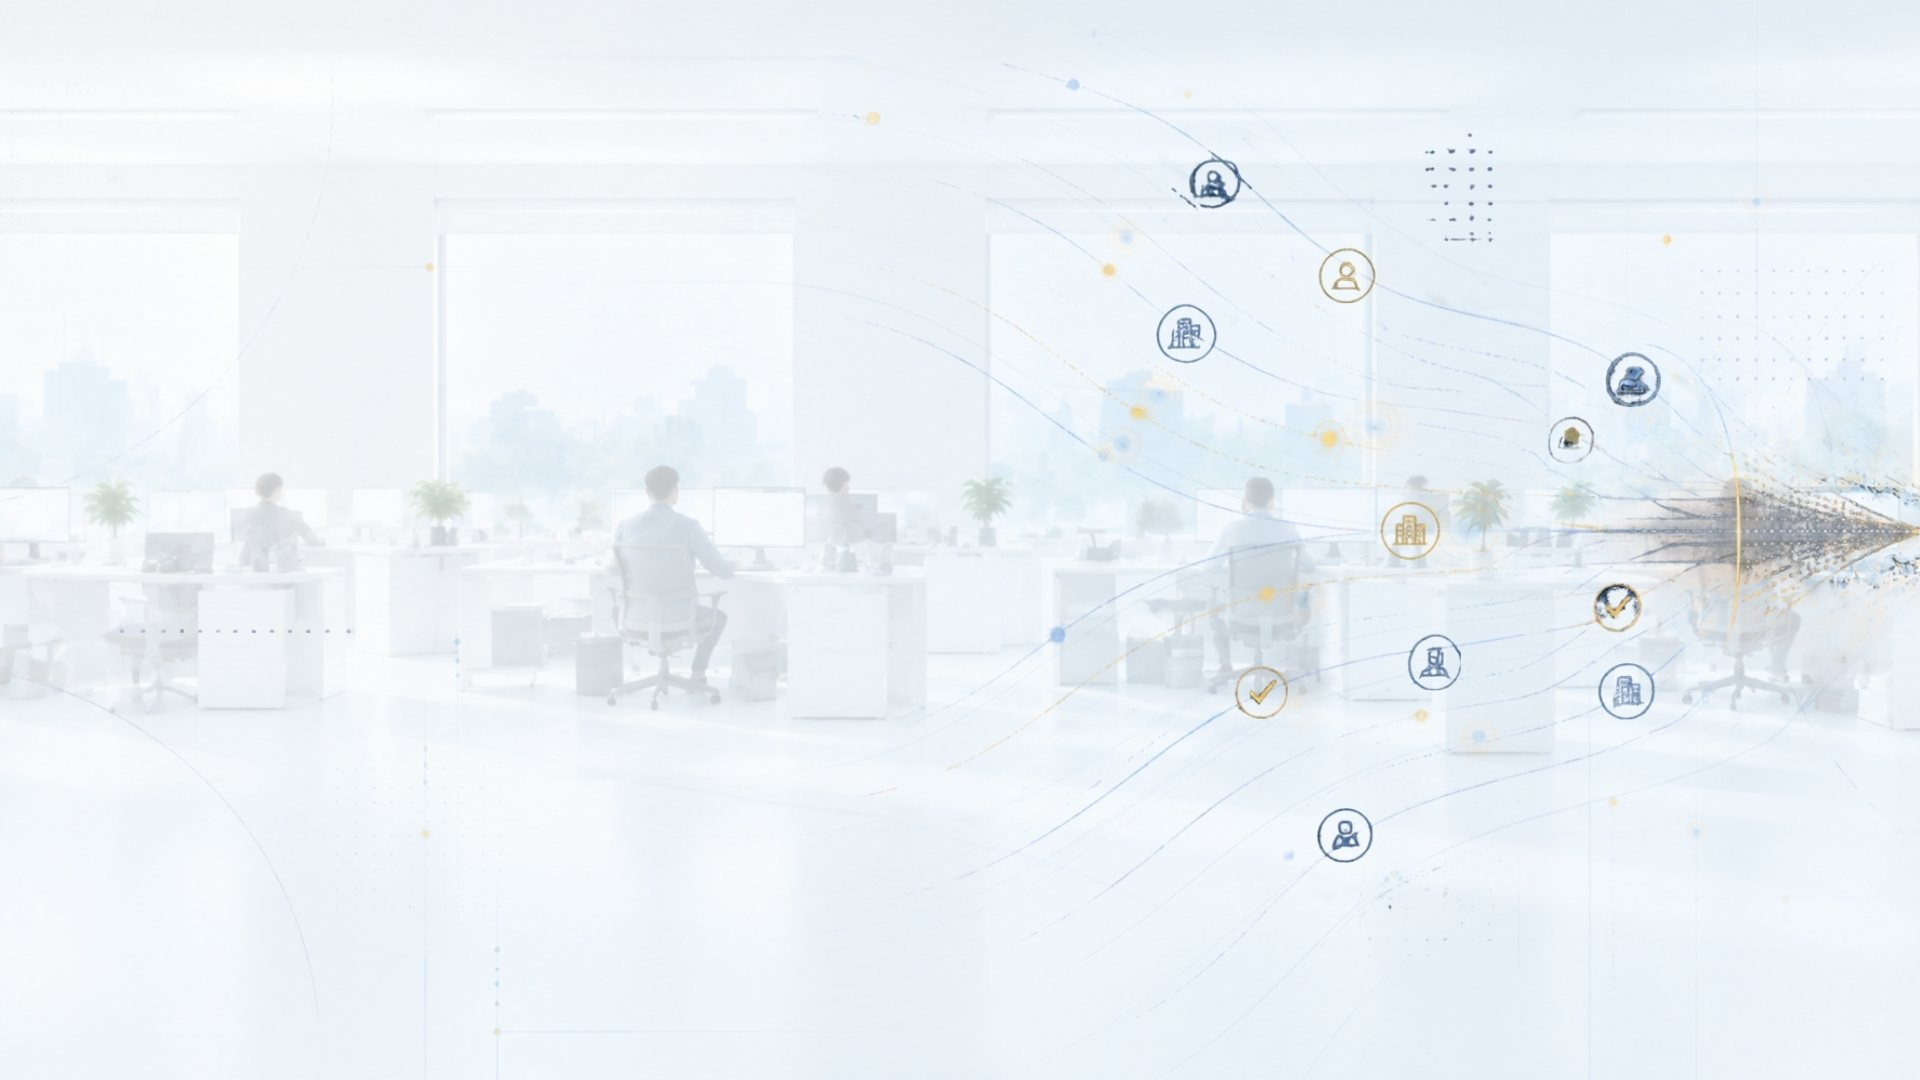
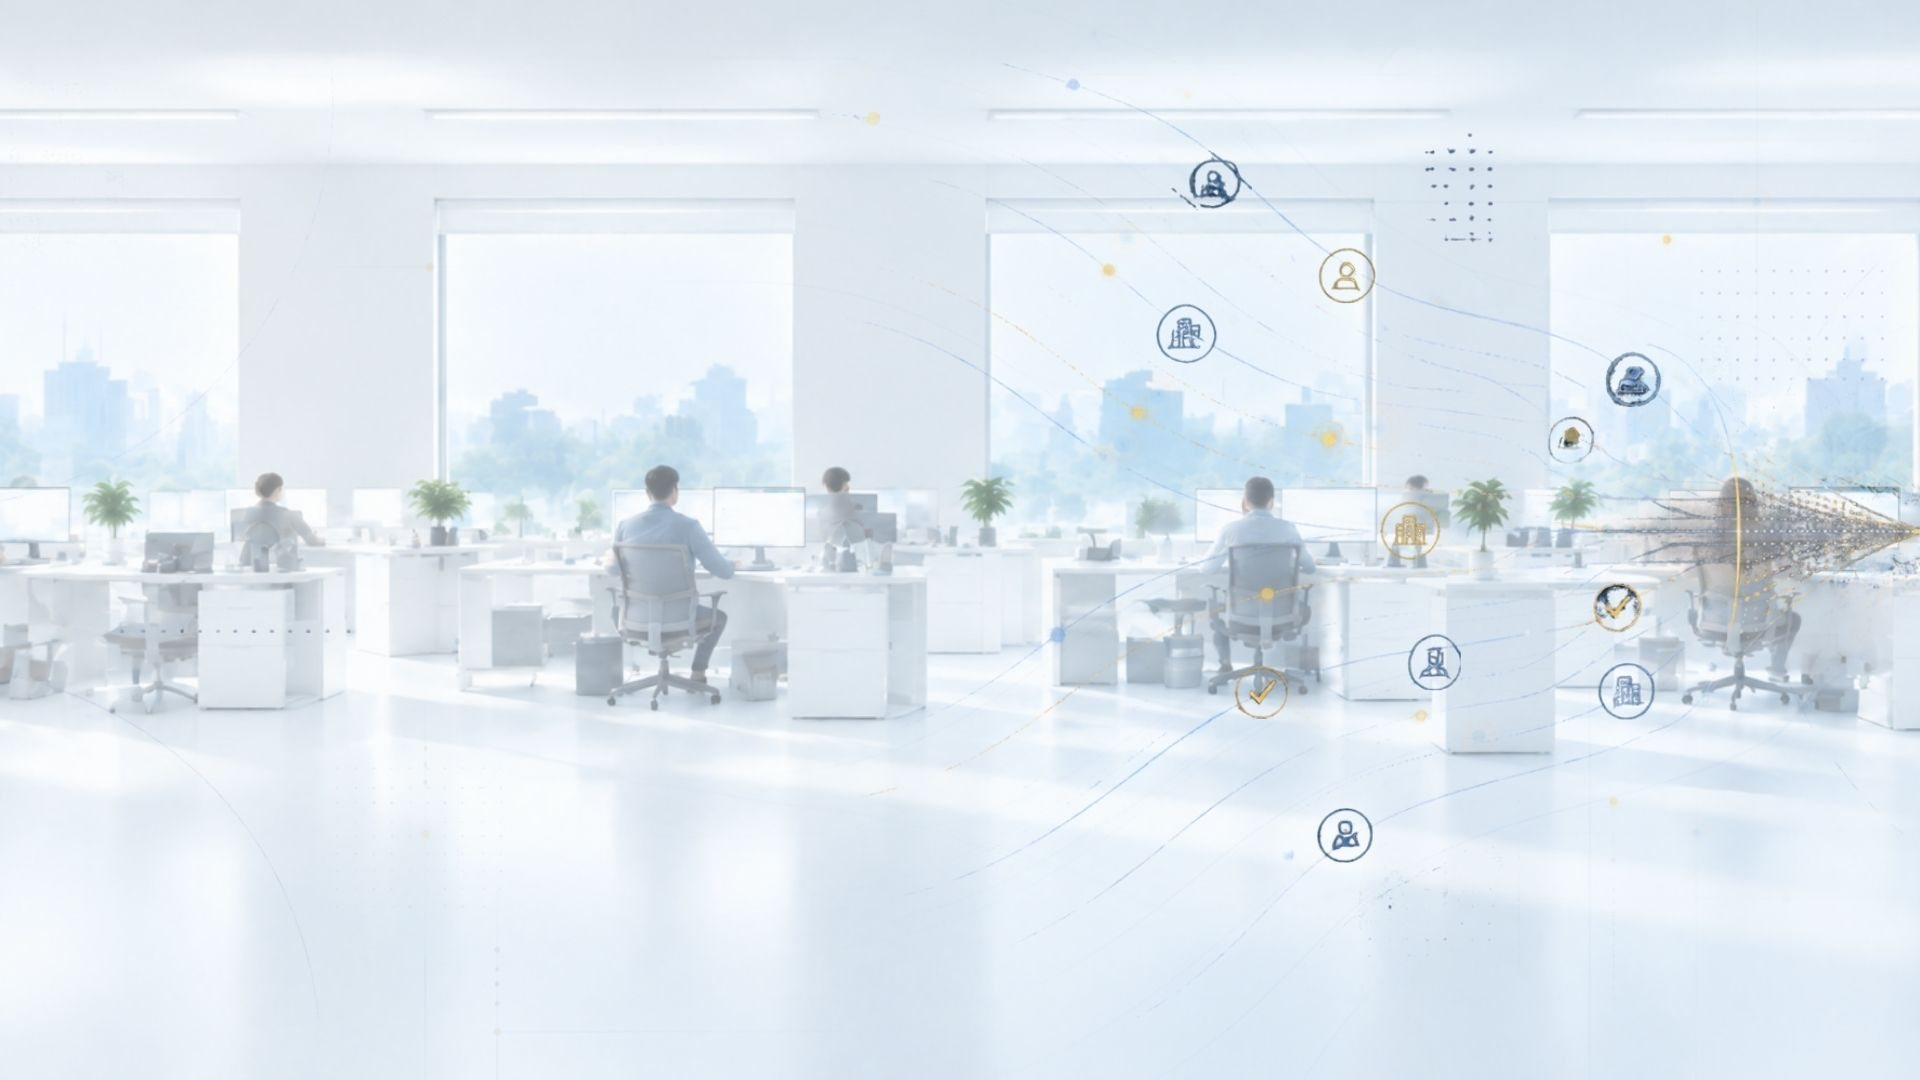
Update site: compliance, Calendly, hero background

diff --git a/data-opportunity.html b/data-opportunity.html
@@ -47,8 +47,7 @@
         <p class="lead">AI labs are paying established companies an indicative $100,000&ndash;$5,000,000 to license de-identified copies of their operational data &mdash; non-dilutive, no debt, no cost to find out what yours is worth. It&rsquo;s the newest addition to the revenue opportunities My-O-Staff brings to business owners.</p>
         <p class="lead" style="font-size: 0.98rem; margin-top: -0.8rem;">We introduce eligible established businesses to our data-licensing partner. Whether a company qualifies, and what it is offered, is decided solely by the partner. All figures are indicative ranges, not offers or guarantees.</p>
         <div class="hero-actions">
-          <a href="https://data.mode.inc/?ref=m7LZVr6qiXWpRaOs?utm_source=myostaff&amp;utm_medium=website" target="_blank" rel="noopener" class="btn btn-primary">Check Your Company&rsquo;s Eligibility &rarr;</a>
-          <a href="#book-call" class="btn btn-ghost">Book a 15-Minute Call</a>
+          <a href="#book-call" class="btn btn-primary">Book a Free 15-Minute Call</a>
         </div>
       </div>
       <div class="hero-media reveal">
@@ -165,7 +164,7 @@
       <h2>The same muscle, a bigger game</h2>
       <p class="section-intro">My-O-Staff has spent years building revenue pipelines for B2B businesses &mdash; lead generation, sales programs, conversion systems. This is the same work at a different scale: we qualify, we introduce, and the partner pays the business directly.</p>
       <div class="center">
-        <a href="https://data.mode.inc/?ref=m7LZVr6qiXWpRaOs?utm_source=myostaff&amp;utm_medium=website" target="_blank" rel="noopener" class="btn btn-primary">Check Your Company&rsquo;s Eligibility &rarr;</a>
+        <a href="#book-call" class="btn btn-primary">Book a Free 15-Minute Call</a>
       </div>
     </div>
   </section>
@@ -202,7 +201,7 @@
       </div>
       <div class="contact-panel reveal">
         <!-- Calendly inline widget begin -->
-        <div class="calendly-inline-widget" data-url="https://calendly.com/contact-bizadvisors/15min?hide_event_type_details=1&amp;hide_gdpr_banner=1" style="min-width:320px;height:700px;"></div>
+        <div class="calendly-inline-widget" data-url="https://calendly.com/businessconsult/15?hide_event_type_details=1&amp;hide_gdpr_banner=1" style="min-width:320px;height:700px;"></div>
         <script type="text/javascript" src="https://assets.calendly.com/assets/external/widget.js" async></script>
         <!-- Calendly inline widget end -->
       </div>

diff --git a/referral-partners.html b/referral-partners.html
@@ -47,7 +47,7 @@
         <h1>You already know the business owners. <span class="accent">Now one introduction has a price tag.</span></h1>
         <p class="lead">Introduce qualifying companies to our data-licensing program and earn a referral fee for each company that completes a data licence &mdash; paid directly by the program operator under a written agreement. It costs nothing to join, and you never handle money or data.</p>
         <div class="hero-actions">
-          <a href="https://data.mode.inc/referrals?ref=m7LZVr6qiXWpRaOs?utm_source=myostaff&amp;utm_medium=website" target="_blank" rel="noopener" class="btn btn-primary">Apply to Become a Referral Partner &rarr;</a>
+          <a href="index.html#lets-talk" class="btn btn-primary">Book a Call With Us</a>
         </div>
       </div>
       <div class="hero-media reveal">
@@ -107,7 +107,7 @@
       <p class="section-intro light" style="font-size: 0.95rem; opacity: 0.85;">My-O-Staff Pty Ltd is an independent referral partner of the data-licensing program described on this site &mdash; not affiliated with, or endorsed by, the program operator. All figures are indicative ranges, not offers or guarantees.</p>
       <p class="section-intro light">There is exactly one level. You are paid by the program operator directly, under a written agreement. It costs nothing to join, and you never handle money or data.</p>
       <div class="center">
-        <a href="https://data.mode.inc/referrals?ref=m7LZVr6qiXWpRaOs?utm_source=myostaff&amp;utm_medium=website" target="_blank" rel="noopener" class="btn btn-primary">Apply to Become a Referral Partner &rarr;</a>
+        <a href="index.html#lets-talk" class="btn btn-primary">Book a Call With Us</a>
       </div>
     </div>
   </section>

diff --git a/index.html b/index.html
@@ -95,7 +95,6 @@
       <p class="section-intro light full-line" style="margin-top: 0.9rem;">You stay in control: scope is agreed in writing first, data is de-identified before any AI use, and your original files never leave your business.</p>
       <div class="hero-actions full-line">
         <a href="#lets-talk" class="btn btn-primary">Book a Free 15-Minute Call</a>
-        <a href="https://data.mode.inc/?ref=m7LZVr6qiXWpRaOs&amp;utm_source=myostaff&amp;utm_medium=website" target="_blank" rel="noopener" class="btn btn-ghost btn-ghost-light">Check Your Company&rsquo;s Eligibility &rarr;</a>
       </div>
       <p class="section-note">Disclosure: My-O-Staff Pty Ltd is an independent referral partner. If your company completes a data licence with our partner, we receive a referral fee from the partner &mdash; it is never deducted from anything your company is paid.</p>
     </div>
@@ -417,7 +416,7 @@
         <div class="contact-panel reveal">
           <h3>Book online</h3>
           <!-- Calendly inline widget begin -->
-          <div class="calendly-inline-widget" data-url="https://calendly.com/contact-bizadvisors/15min?hide_event_type_details=1&hide_gdpr_banner=1" style="min-width:320px;height:700px;"></div>
+          <div class="calendly-inline-widget" data-url="https://calendly.com/businessconsult/15?hide_event_type_details=1&hide_gdpr_banner=1" style="min-width:320px;height:700px;"></div>
           <script type="text/javascript" src="https://assets.calendly.com/assets/external/widget.js" async></script>
           <!-- Calendly inline widget end -->
         </div>

diff --git a/css/styles.css b/css/styles.css
@@ -108,7 +108,7 @@ img, iframe { max-width: 100%; }
   position: relative;
   padding: 150px 0 110px;
   background:
-    linear-gradient(rgba(255,255,255,0.62), rgba(255,255,255,0.72)),
+    linear-gradient(rgba(255,255,255,0.80), rgba(255,255,255,0.86)),
     url('../img/hero-bg.jpg') center top / cover no-repeat;
   overflow: hidden;
 }
